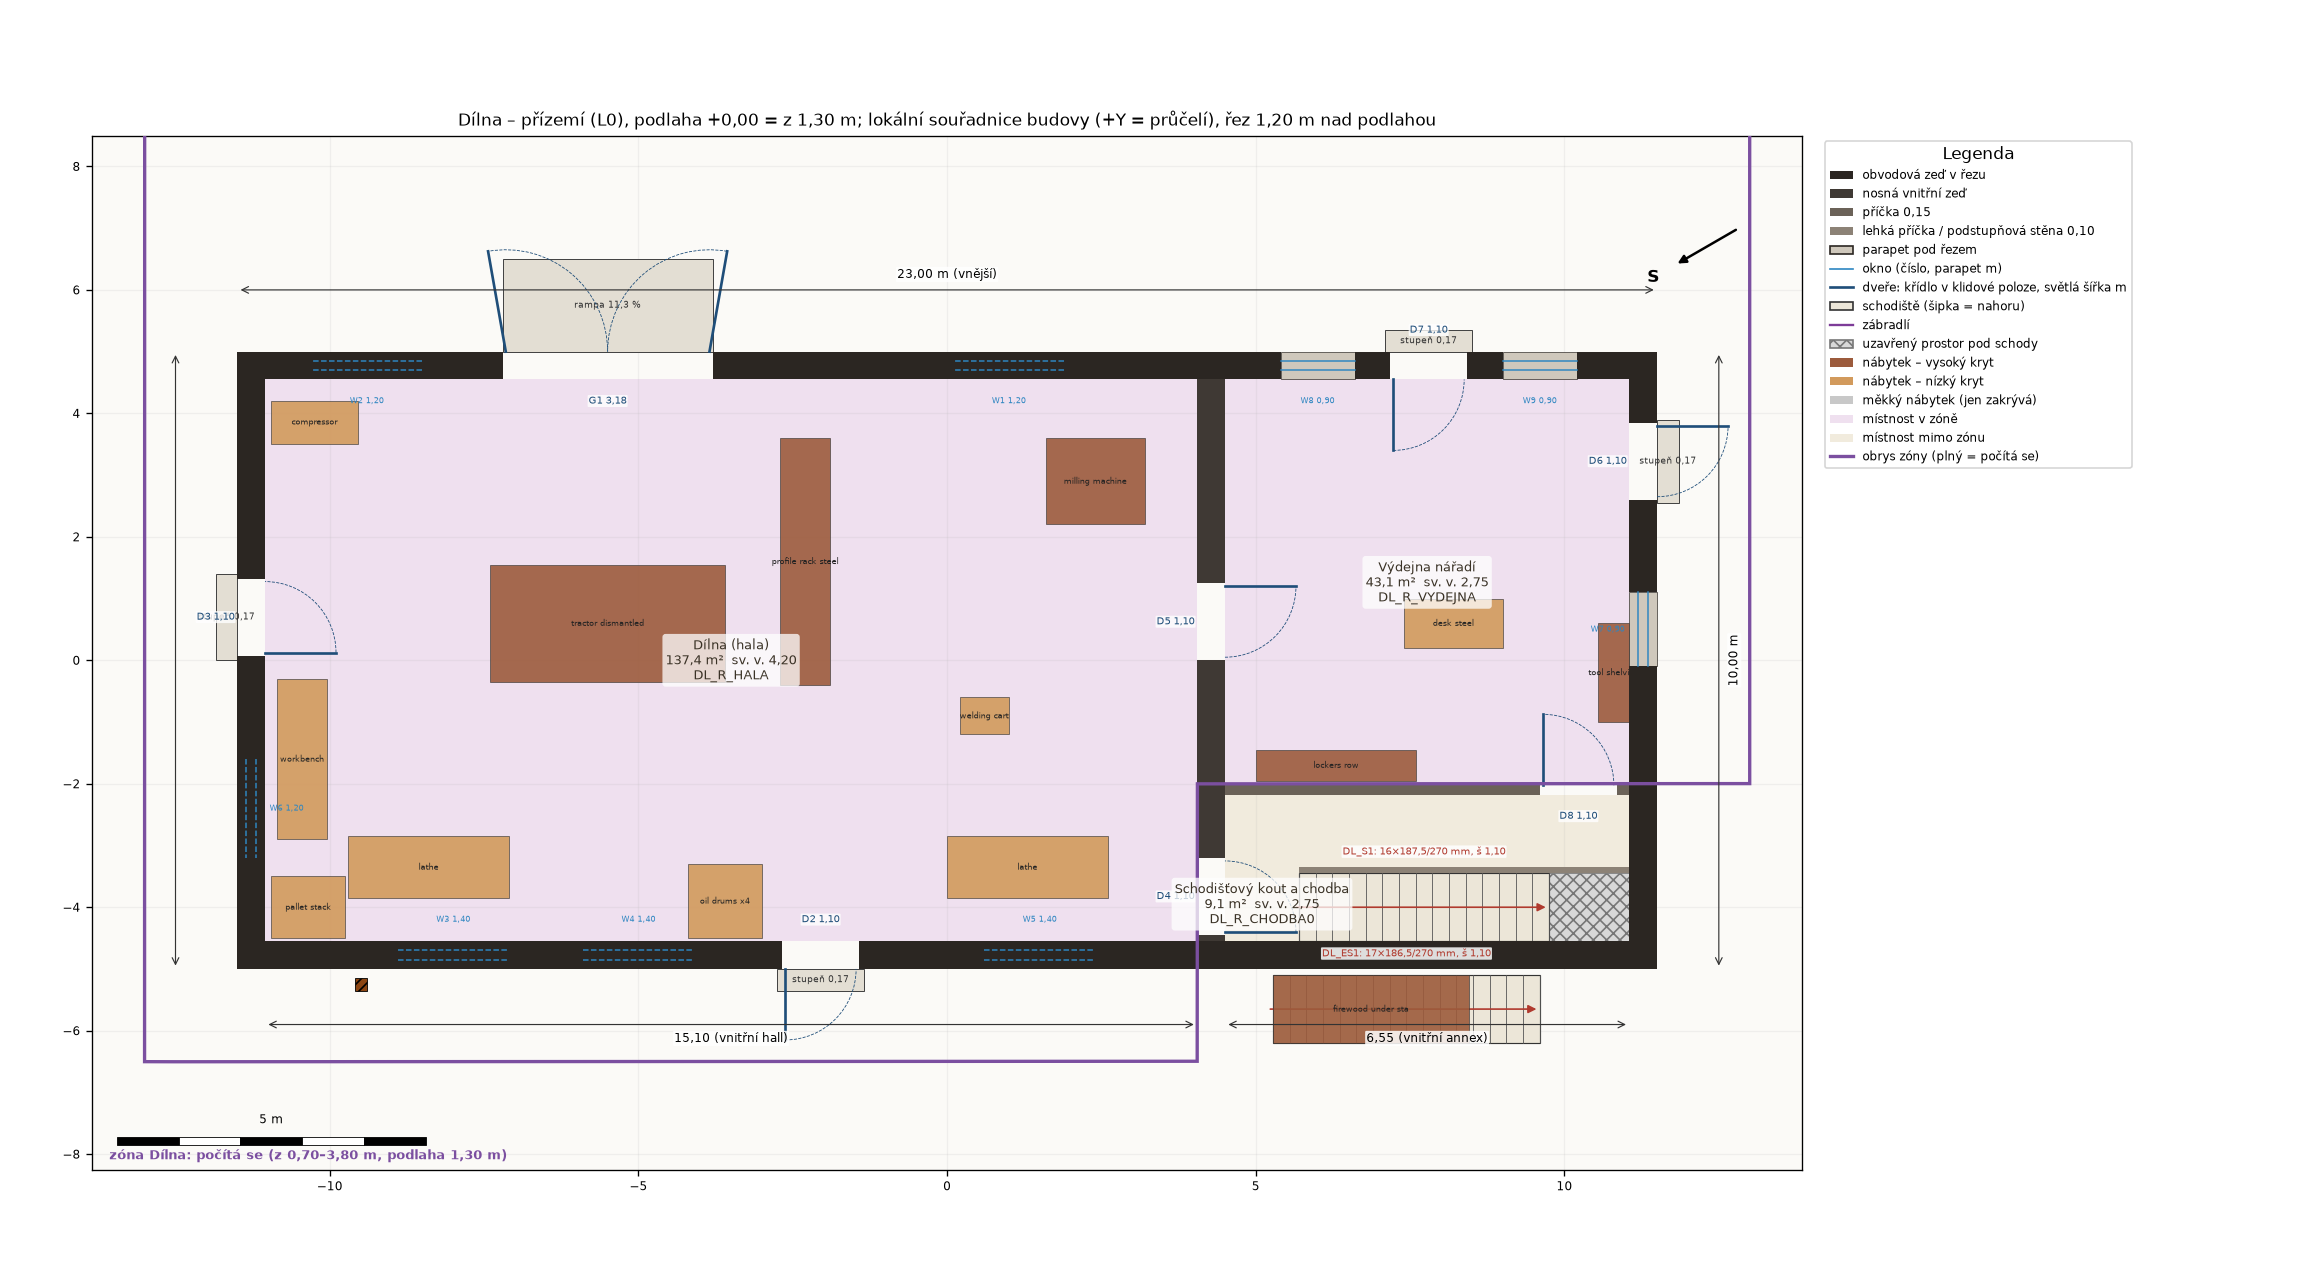
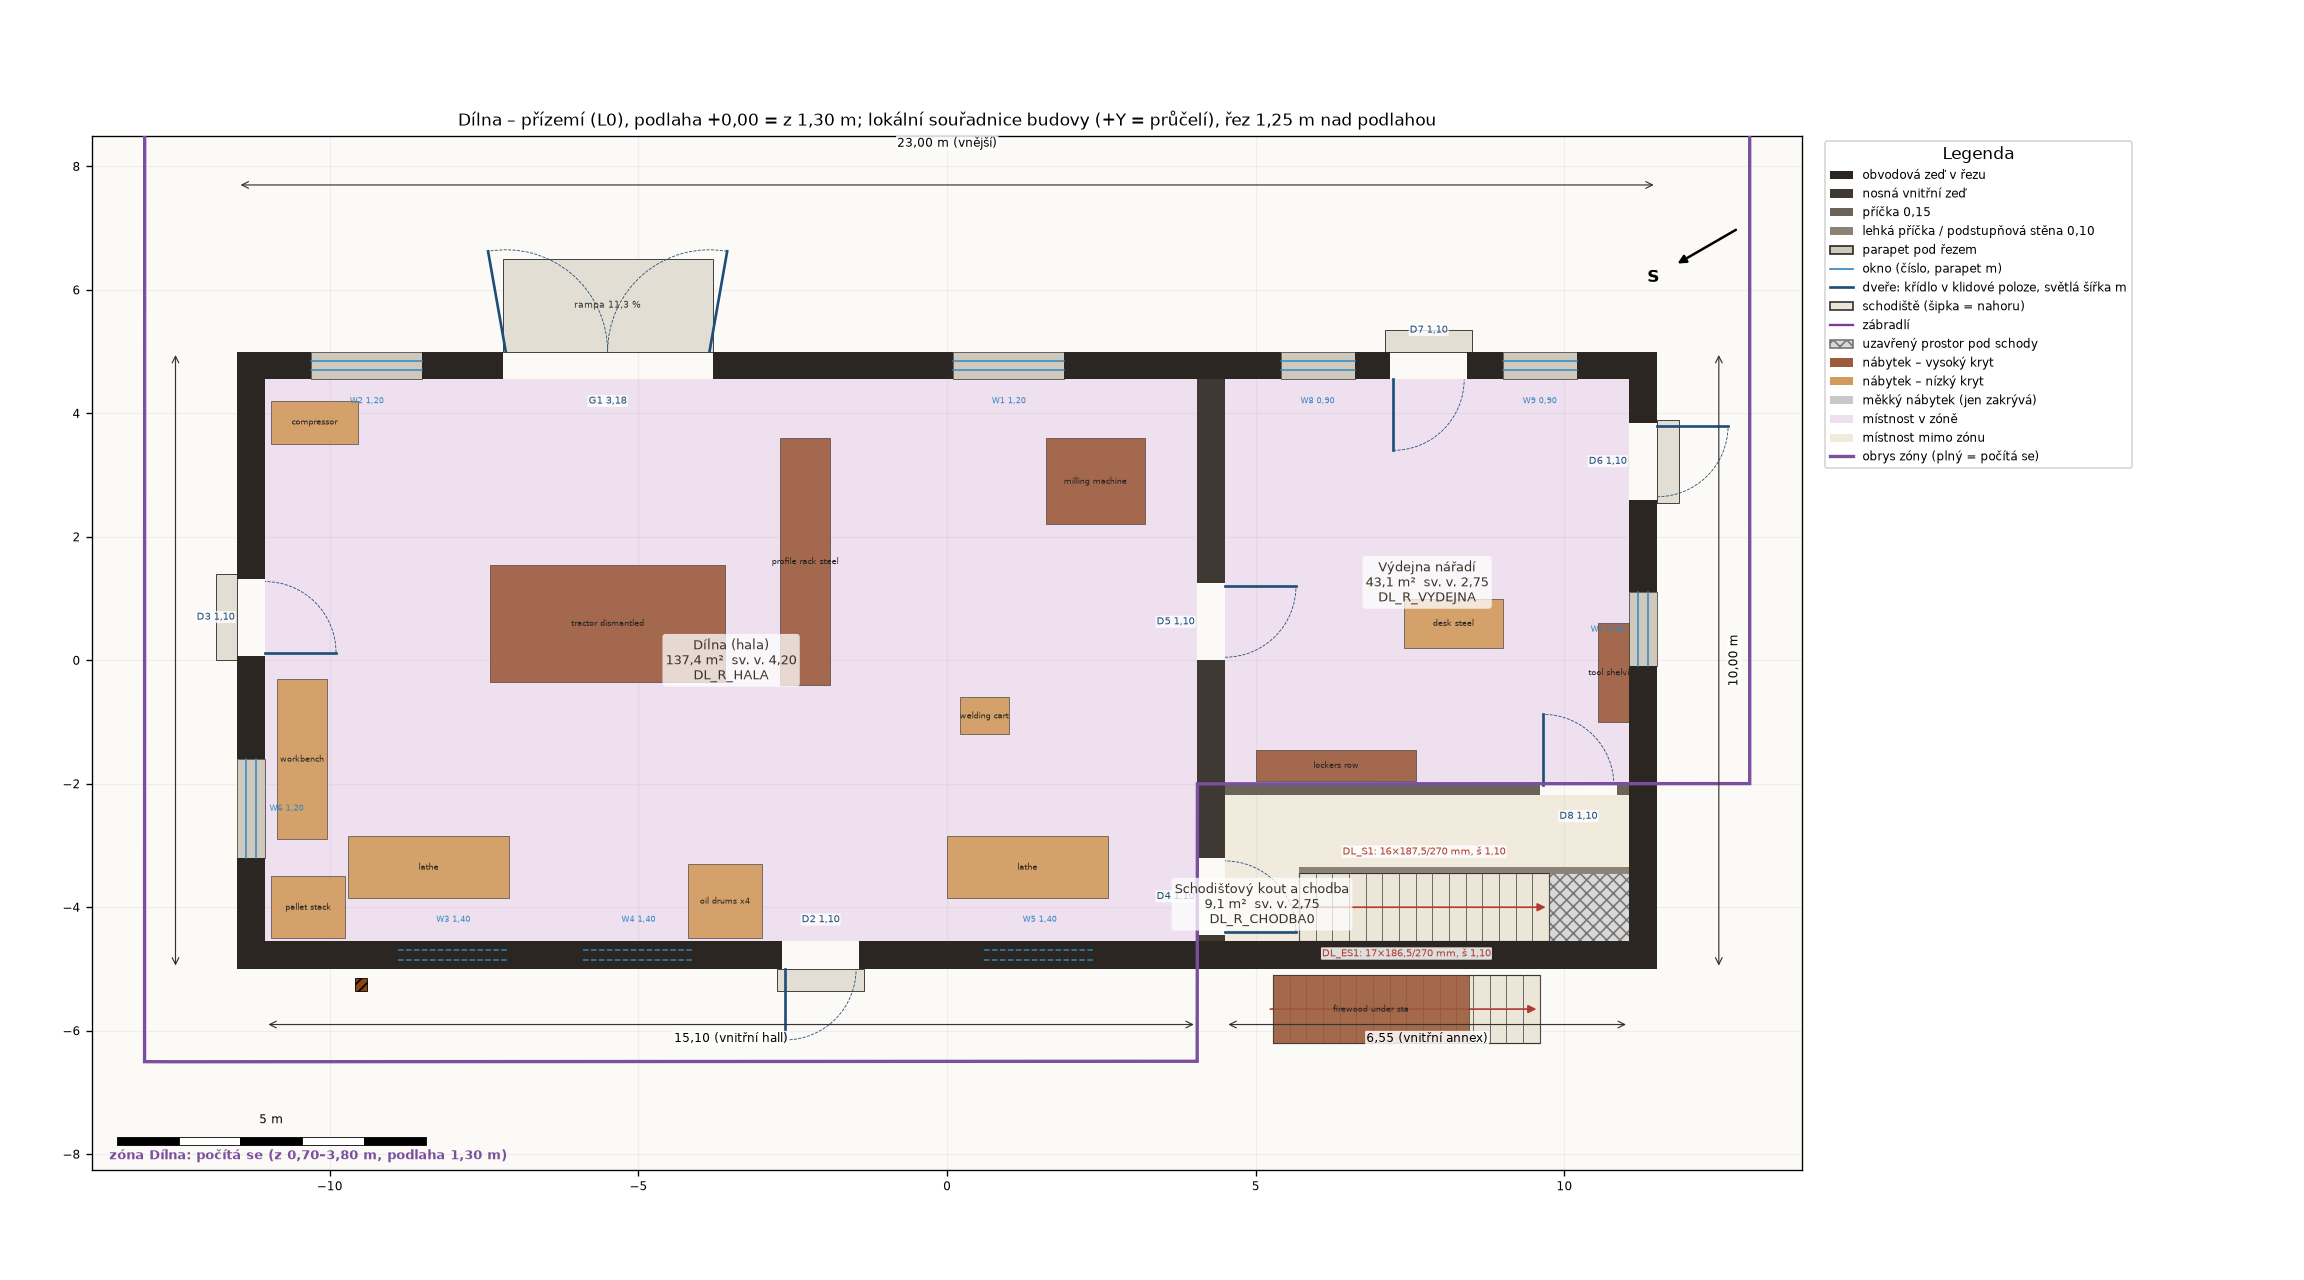
IronValley WIP: in-progress changes from running workflows
Claude-Session: https://claude.ai/code/session_01Lee9pJozevDVkTwzuWftyb

diff --git a/IronValley/Web/src/ai/index.js b/IronValley/Web/src/ai/index.js
@@ -1,0 +1,30 @@
+// IRON VALLEY — AI system STUB (herní integrace).
+//
+// Tento soubor je jen zástupný stub se závaznou signaturou z Docs/GAMEPLAY_CONTRACTS.md.
+// Nic nedělá. AI agent ho nahradí skutečnou implementací se STEJNÝM rozhraním.
+//
+// createAISystem({ combatants, world, nav, cover, events, match, config }) → {
+//   addBot(combatant), removeBot(id), update(dt), getDebug(), reset()
+// }
+
+export function createAISystem({ combatants, world, nav, cover, events, match, config } = {}) {
+  const bots = new Map();
+  return {
+    isStub: true,
+    addBot(combatant) {
+      if (combatant && combatant.id != null) bots.set(combatant.id, combatant);
+    },
+    removeBot(id) {
+      bots.delete(id);
+    },
+    update(dt) {
+      // no-op: boti v stubu stojí (cmd se neposílá).
+    },
+    getDebug() {
+      return { stub: true, bots: [...bots.keys()] };
+    },
+    reset() {
+      // no-op
+    },
+  };
+}

diff --git a/IronValley/Art/Source/Blender/characters/human_base.py b/IronValley/Art/Source/Blender/characters/human_base.py
@@ -77,6 +77,14 @@ SKELETON_DATA_NAME = "SKEL_Human_Base"
 MESH_NAME = "SK_Human_Base"
 BODY_VERTS = 13380
 RENDER_SAMPLES = 24
+# UE4-mannequin twist bones added on top of the MPFB rig (see spec 'Twist bones'):
+# (name, parent, head fraction, tail fraction along the parent)
+TWIST_SPECS = [(f"{b}_twist_01_{s}", f"{b}_{s}", fh, ft) for s in ("l", "r")
+               for b, fh, ft in (("upperarm", 0.10, 0.60), ("lowerarm", 0.50, 1.00))]
+# weight ramps: share of the parent's weight moved to the twist bone
+TWIST_RAMPS = {"lowerarm": (0.30, 0.70, True),     # 0 -> 1 from 30 % to 70 % of the forearm
+               "upperarm": (0.20, 0.55, False)}    # 1 -> 0 from 20 % to 55 % of the upper arm
+TWIST_DRIVE = {"lower": 0.5, "upper": 0.5}
 
 
 def log(*a):
@@ -136,6 +144,7 @@ def build():
                              "reason": "Root carries zero skin weight in weights.game_engine.json; "
                                        "placed at the origin with world-aligned axes like the "
                                        "Unreal mannequin root. No deformation change."}
+    bones = C.add_twist_bones(bones, TWIST_SPECS)
     bone_names = list(bones.keys())
 
     # ---- mesh: body group only
@@ -159,12 +168,17 @@ def build():
                                    with_flags=True)
     asym_src = C.weight_asymmetry(D / np.maximum(D.sum(1, keepdims=True), 1e-12), bone_names, mirror)
     Ds = C.symmetrize_weights(D, bone_names, mirror)
+    for side in ("l", "r"):
+        for seg, (s0, s1, tt) in TWIST_RAMPS.items():
+            b = bones[f"{seg}_{side}"]
+            Ds = C.split_weights_along_bone(Ds, bone_names, V3[:BODY_VERTS], b["head"], b["tail"],
+                                            f"{seg}_{side}", f"{seg}_twist_01_{side}", s0, s1, tt)
     _, lst = C.limit_and_normalize(Ds, MAX_INFLUENCES)        # stats only
     D4 = C.limit_symmetric(Ds, bone_names, mirror, mflags, MAX_INFLUENCES)
     chg = np.abs(D4 - Ds).sum(1)
     info["weights"] = dict(lst, source_bones=len(wj["weights"]),
                            source_lr_asymmetry=asym_src,
-                           symmetrized=True,
+                           symmetrized=True, twist_ramps=TWIST_RAMPS,
                            after_symmetrize_and_limit_lr_asymmetry=C.weight_asymmetry(D4, bone_names, mirror),
                            limit_change_L1_mean=round(float(chg.mean()), 6),
                            limit_change_L1_max=round(float(chg.max()), 5))
@@ -323,7 +337,10 @@ def validate(arm, body, info):
     checks["facing_minus_Y"] = "PASS" if (co[inose, 1] < -0.05 and abs(co[inose, 0]) < 0.01) else "FAIL"
 
     # skeleton
-    hr = C.hierarchy_report(arm)
+    parents = dict(C.UE_MANNEQUIN_PARENTS)
+    parents.update(C.UE_MANNEQUIN_TWIST_PARENTS)
+    hr = C.hierarchy_report(arm, expected=list(C.UE_MANNEQUIN_CORE) + C.UE_MANNEQUIN_TWIST,
+                            parents=parents)
     rep["skeleton"] = hr
     rep["skeleton"]["bones"] = {b.name: {"parent": b.parent.name if b.parent else None,
                                          "head_m": [round(v, 4) for v in b.head_local],
@@ -469,6 +486,18 @@ HALF = dict(curl=(42, 48, 30), thumb=(14, 8, 12, 18))
 SPREAD = dict(spread=14.0, curl=(-6, 0, 0), thumb=(-18, 0, -5, 0))
 
 
+def p_upperarm_roll(arm):
+    # elbows 90 deg forward, then the upper arm rolled 70 deg about its own axis (internal
+    # rotation: forearm swings towards the belly) -- stress test for the shoulder / upper arm
+    for side, sg in (("l", 1.0), ("r", -1.0)):
+        u = C.bone_dir(arm, f"upperarm_{side}")
+        C.aim_bone(arm, f"lowerarm_{side}", u)
+        fwd = Vector((0, -1, 0))
+        fwd_p = (fwd - u * fwd.dot(u)).normalized()
+        C.rotate_bone_world(arm, f"lowerarm_{side}", u.cross(fwd_p), 90.0)
+        C.rotate_bone_world(arm, f"upperarm_{side}", u, 70.0 * sg)
+
+
 def p_fist(arm):
     for side in ("l", "r"):
         C.pose_hand(arm, side, **FIST)
@@ -492,35 +521,89 @@ POSES = [
     ("squat_knees_120", p_squat, "hip flexion 100 deg, knee flexion 120 deg, ankle dorsiflexion 20 deg, feet planted"),
     ("spine_twist", p_spine_twist, "spine axial rotation 55 deg (15+20+20) + neck 5 deg, pelvis fixed"),
     ("wrist_flex", p_wrist_flex, "left wrist flexion 70 deg, right wrist extension 60 deg"),
-    ("wrist_twist", p_wrist_twist, "hand rotated 80 deg about the forearm axis (no twist bones)"),
+    ("wrist_twist", p_wrist_twist, "hand rotated 80 deg about the forearm axis"),
+    ("upperarm_roll", p_upperarm_roll, "elbows 90 deg, upper arm rolled 70 deg about its axis (internal rotation)"),
     ("fist", p_fist, "fist: fingers MCP/PIP/DIP 80/90/45 deg, thumb 01 folded 45 + out 10, 02/03 flex 35/40"),
     ("fingers_half", p_half, "transition: fingers 42/48/30 deg, thumb 14/8/12/18"),
     ("fingers_spread", p_spread, "fingers spread 14 deg (pinky 22), MCP extension 6 deg, thumb radial abduction 18 deg"),
 ]
 
 
+DRIVEN = ("wrist_twist", "upperarm_roll")      # also measured / rendered with driven twist bones
+
+
+def ring_ratio(co_rest, co_pose, head, tail, fracs, mask, radius=0.08):
+    """Mean radial distance of limb cross-section rings (posed / rest) around a static axis."""
+    h, t = np.asarray(head), np.asarray(tail)
+    ax = t - h
+    L = np.linalg.norm(ax)
+    ax = ax / L
+    out = {}
+    for f in fracs:
+        p = h + ax * L * f
+        r = []
+        for co in (co_rest, co_pose):
+            rel = co - p
+            al = rel @ ax
+            rad = np.linalg.norm(rel - np.outer(al, ax), axis=1)
+            m = mask & (np.abs(al) < 0.006) & (rad < radius)
+            r.append(rad[m].mean())
+        out[str(f)] = round(float(r[1] / r[0]), 3)
+    return out
+
+
 def pose_metrics(arm, body):
     C.reset_pose(arm)
     rest = C.mesh_arrays(body, evaluated=True)
     out = {}
-    for name, fn, desc in POSES:
+    names = [b.name for b in arm.data.bones]
+    D = C.read_weights(body, names)
+    armmask = {sd: C.dominant_bone_mask(D, names, [f"{b}_{sd}" for b in (
+        "upperarm", "upperarm_twist_01", "lowerarm", "lowerarm_twist_01", "hand", "clavicle")])
+        for sd in ("l", "r")}
+    bvh0 = C.mesh_bvh(body, rest)
+    runs = [(n, f, d, False) for n, f, d in POSES] + [(n, f, d, True) for n, f, d in POSES if n in DRIVEN]
+    for name, fn, desc, drive in runs:
         C.reset_pose(arm)
         fn(arm)
+        tw = C.drive_twist_bones(arm, lower=TWIST_DRIVE["lower"], upper=TWIST_DRIVE["upper"]) if drive else None
         bpy.context.view_layer.update()
         co = C.mesh_arrays(body, evaluated=True)
         r = C.deformation_report(body, rest, co)
         n_int, _ = C.self_intersections(body, co)
         r["self_intersecting_face_pairs"] = n_int
-        r["description"] = desc
-        # bone length stability (pose must not scale bones)
+        r["description"] = desc + (" -- twist bones driven" if drive else "")
         maxdl = 0.0
         for pb in arm.pose.bones:
             L = (C.bone_world(arm, pb.name, "tail") - C.bone_world(arm, pb.name, "head")).length
             maxdl = max(maxdl, abs(L - pb.bone.length) / max(pb.bone.length, 1e-9))
         r["max_bone_length_change_rel"] = round(maxdl, 8)
         r["min_z_m"] = round(float(co[:, 2].min()), 4)
-        out[name] = r
-        log(f"pose {name}: {r}")
+        if drive:
+            r["twist_bones_driven_deg"] = tw
+        if name == "wrist_twist":
+            for sd in ("l", "r"):
+                b = arm.data.bones[f"lowerarm_{sd}"]
+                r[f"forearm_ring_ratio_{sd}"] = ring_ratio(rest, co, b.head_local, b.tail_local,
+                                                           (0.3, 0.5, 0.7, 0.85, 0.95, 1.0, 1.05), armmask[sd])
+        if name == "upperarm_roll":
+            for sd in ("l", "r"):
+                b = arm.data.bones[f"upperarm_{sd}"]
+                r[f"upperarm_ring_ratio_{sd}"] = ring_ratio(rest, co, b.head_local, b.tail_local,
+                                                            (0.1, 0.2, 0.35, 0.5, 0.7), armmask[sd], 0.09)
+        if name in ("elbows_120", "squat_knees_120", "upperarm_roll"):
+            bvh = C.mesh_bvh(body, co)
+            jc = {}
+            for jn in (("lowerarm_l", "lowerarm_r") if name != "squat_knees_120" else ("calf_l", "calf_r", "thigh_l")):
+                p0 = arm.data.bones[jn].head_local
+                p1 = C.bone_world(arm, jn)
+                d0 = bvh0.find_nearest(p0)[3]
+                d1 = bvh.find_nearest(p1)[3]
+                jc[jn] = {"rest_clearance_m": round(d0, 4), "posed_clearance_m": round(d1, 4),
+                          "ratio": round(d1 / d0, 3)}
+            r["joint_clearance"] = jc
+        out[name + ("_driven" if drive else "")] = r
+        log(f"pose {name}{' (driven)' if drive else ''}: tris<25%={r['tris_below_25pct_area']} int={r['self_intersecting_face_pairs']}")
     C.reset_pose(arm)
     n_int, _ = C.self_intersections(body, rest)
     out["_rest_self_intersecting_face_pairs"] = n_int
